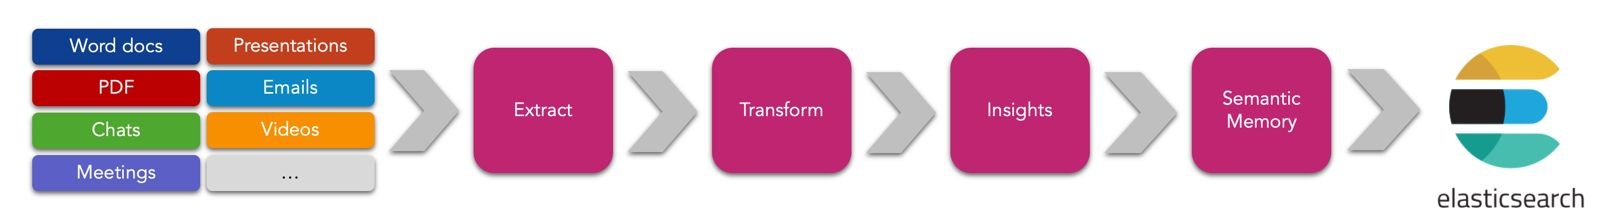
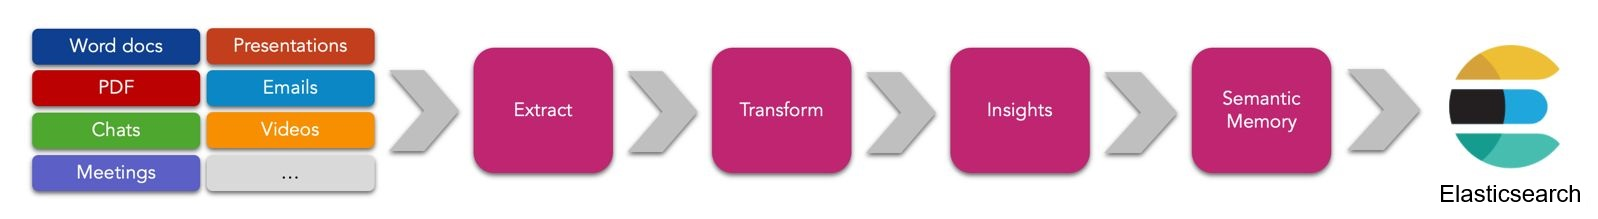
Improved readme and added new images

Changed region(s): [[0.8892, 0.8493, 1.0, 0.9589]]

diff --git a/tests/UnitTests/Serverless/ServerlessTest.cs b/tests/UnitTests/Serverless/ServerlessTest.cs
@@ -23,6 +23,13 @@ public class ServerlessTest
     {
         IKernelMemory memory = this._services.GetRequiredService<IKernelMemory>();
 
+        // Deletes the default index if already present
+        await memory.DeleteIndexAsync(
+        index: null,
+            cancellationToken: CancellationToken.None).ConfigureAwait(false);
+        this._output.WriteLine($"Ensured default index is deleted.");
+
+        // Proceeds
         var docId = await memory.ImportDocumentAsync("file1-Wikipedia-Carbon.txt", documentId: "doc001");
         this._output.WriteLine($"Indexed {docId}");
 
@@ -40,6 +47,8 @@ public class ServerlessTest
             .AddTag("type", "news"));
 
         this._output.WriteLine($"Indexed {docId}");
+
+        await Task.Delay(2000, CancellationToken.None); // TODO: remove. Without this the data might not be ready for read...
 
         // Question without filters
         var question = "What's E = m*c^2?";

diff --git a/README.md b/README.md
@@ -2,31 +2,70 @@
 **By Free Mind Labs, Inc.** - *Dive into your Stream*
 
 [![License: MIT](https://img.shields.io/github/license/microsoft/kernel-memory)](https://github.com/freemindlabsinc/FreeMindLabs.SemanticKernel/blob/main/LICENSE)
+
 Use [Elasticsearch](https://www.elastic.co/) as vector storage for [Microsoft](https://www.microsoft.ms) **[Kernel Memory](https://github.com/microsoft/semantic-memory)** (KM)
 
 Kernel Memory (KM) is an open-source service and plugin specialized in the efficient indexing of datasets through custom continuous data hybrid pipelines.
 
-![Pipelines](/content/images/Pipelines.jpg)
+<img src="/content/images/Pipelines.jpg"/>
 
 Utilizing advanced embeddings and LLMs, the system enables Natural Language querying for obtaining answers from the indexed data, complete with citations and links to the original sources.
 
-![RAG](/content/images/RAG.jpg)
+<img src="/content/images/RAG.jpg"/>
 
 
-This repository contains the Elasticsearch adapter that allows KM to use Elasticsearch as vector database.
+This repository contains the **Elasticsearch adapter** that allows KM to use Elasticsearch as vector database, thus allowing developers to perform hybrid and semantic search directly on  Elasticsearch, on-premise or in the cloud.
+
+Tokenization can be done using commercial models from OpenAI, Azure Open AI or open sourece models hosted on Hugging Face, including those used by [Sentence Transformers](https://sbert.net/)
+
+<p align="center">
+    <img src="https://sbert.net/_static/logo.png" width=200 />
+</p>
 
 ## Goals
-1. To implement an Elasticsearch [IMemoryDB](https://github.com/microsoft/kernel-memory/blob/adce865a472728f2549428cf6b82ca79a601582b/service/Abstractions/MemoryStorage/IMemoryDb.cs#L9) connector for Kernel Memory..
-    1. This allows to use Elasticsearch as vector database directly from Kernel Memory.
-	1. KM can also be used as memory store for [Semantic Kernel](https://github.com/microsoft/semantic-kernel).
+1. To implement an maintain an open source Elasticsearch [IMemoryDB](https://github.com/microsoft/kernel-memory/blob/adce865a472728f2549428cf6b82ca79a601582b/service/Abstractions/MemoryStorage/IMemoryDb.cs#L9) connector for Kernel Memory.
+    1. Free Mind Labs require such connector to finish developing [Videomatic](https://github.com/freemindlabsinc/videomatic).
+    1. KM can also be used as memory store for [Semantic Kernel](https://github.com/microsoft/semantic-kernel).
+    1. The basic connector (i.e. the complete implementation of IMemoryDb) will be free of charge and open source.
+
+1. In the future we hope to add additional features (e.g. advanced search options for pre and post filtering, analytics, ES-specific features, etc.) that could generate some revenue to support this and other projects. 
+    1. Patreon?
+    1. Github domantions?
+    1. Other?
+
+We'd love to hear what you think about this.
 
 Click on :notebook: [DIARY](DIARY.md) to read daily thoughts and what is happening behind the scenes.
 
 ## Show me the money
 
 Here are some screenshots of the connector in action.
+The data was generated running the tests in the solution.
 
+![Behaves Like](/content/images/BehavesLike.jpg)
+Click [here](tests/UnitTests/MemoryStorage/MemoryStorageTests.cs) to see the source code of the test.
 
+![Carbon Bonds to](/content/images/CarbonBondTo.jpg)
+Click [here](tests/UnitTests/Serverless/ServerlessTest.cs) to see the source code of the test.
+
+### Mappings
+The examples uses the OpenAI's text-embedding-ada-002. 
+It is possible to use any other embedding model supported by SK (e.g. Azure Open AI and Hugging Face).
+
+![Mappings](/content/images/Mappings.jpg)
+
+### Kibana
+Here are some screenshots of the data stored in ES, after running the tests in the solution.
+
+![All Documents](/content/images/DataPageAllRows.jpg)
+
+![Data Page 1](/content/images/DataPage1.jpg)
+![Data Page 2](/content/images/DataPage2.jpg)
+
+### KNN Query
+Here's an example of how to run semantic search directly on ES.
+
+![KNN Query](/content/images/KnnQuery.jpg)
 
 
 ## Pre-requisites
@@ -65,7 +104,6 @@ var mapResponse = client.Indices.PutMapping("index", x => x
             .Index(true)
             .Similarity("dot_product"))));
 ```
-
 
 ## Resources
 
